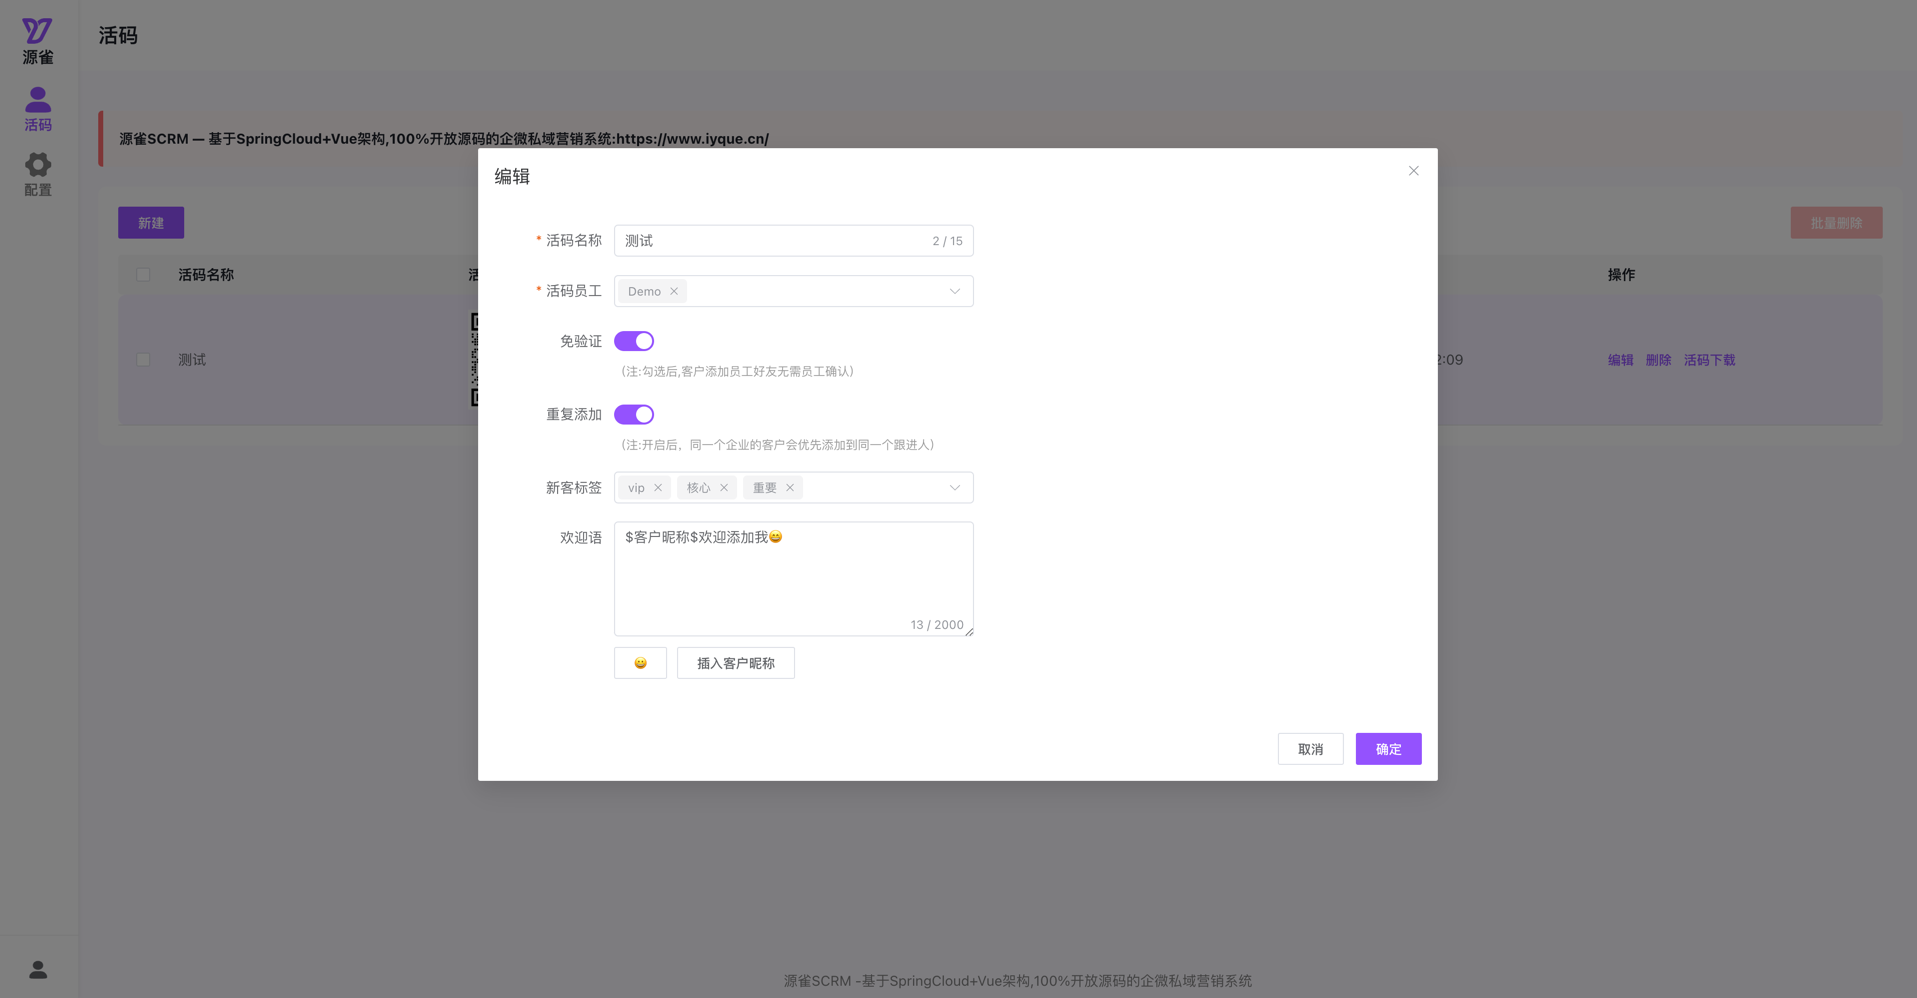
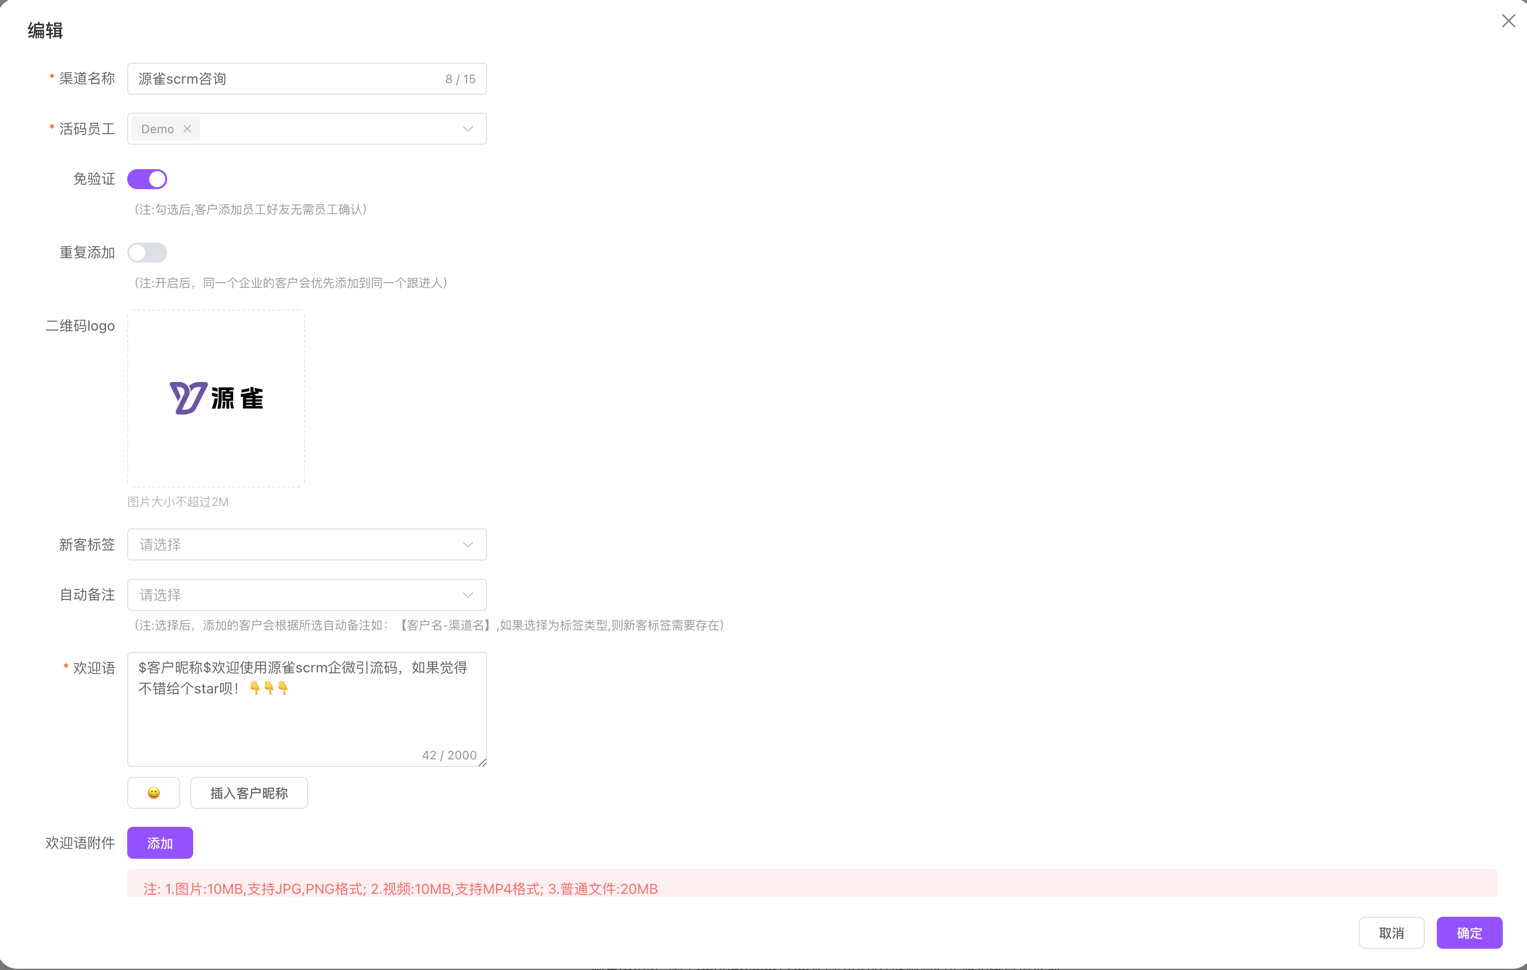
欢迎语附件与活码自定义logo功能发布更新,相关文档更新

diff --git a/README.md b/README.md
@@ -51,18 +51,20 @@
   * 客户扫码添加员工好友,无需员工确认，自动同意。
 * 重复添加
   * 同一客户扫码，只可添加到指定员工，避免客户防止客户添加多个员工。
-* 欢迎语
-  * 可为每个员工定义不同的欢迎语模版。
+* 多样化欢迎语与活码logo自定义
+  * 可为每个员工定义不同的欢迎语模版
+  * 二维码logo可自行定义
 * 自动备注
   * 按照添加时间，标签，渠道名为客户添加自动备注。
 * 更多
-  * 后续会围绕不断更新诸如:渠道统计，欢迎语附件，临时活码,外链活码等相关功能。
+  * 后续会围绕不断更新诸如:渠道统计，临时活码,外链活码等相关功能。
   * <a href="https://docs.qq.com/sheet/DRVJoZnVUSG5nZHpr?tab=BB08J2" target="_blank">《企微scrm引流码需求收集表》</a>
 #### 应用演示
   地址:https://iyque.cn/tools/  &nbsp;&nbsp;账号:iyque  &nbsp;&nbsp;密码:123456
 #### 功能截图
 ![img_1.png](img/img_1.png)
 ![img_2.png](img/img_2.png)
+![img_3.png](img/img_3.png)
 #### 安装部署
 ##### 后端api部署
 * 后端配置文件修改
@@ -72,6 +74,9 @@
       iyque:
          userName: iyque #系统登录账号
          pwd: 123456 # 系统登录密码
+         demo: true #设置为false后系统不可进行修改操作
+         fileViewUrl: https://iyque.cn/qapi/file/fileView/ #文件统一访问前缀，后端api指向 FileController.readFile
+         uploadDir: ./upload #文件本地存储路径
      
      #系统内置了H2数据库,无需安装单独的数据库,username与password可以使用默认的也可自定义
      #数据库控制台默认访问地址: {系统访问前缀}/h2
@@ -79,6 +84,8 @@
         url: jdbc:h2:file:./data/mydb;
         username: iyque
         password: 123456
+  
+  
   ```
 * 后端应用打包与启动
   * 打包: mvn clean package
